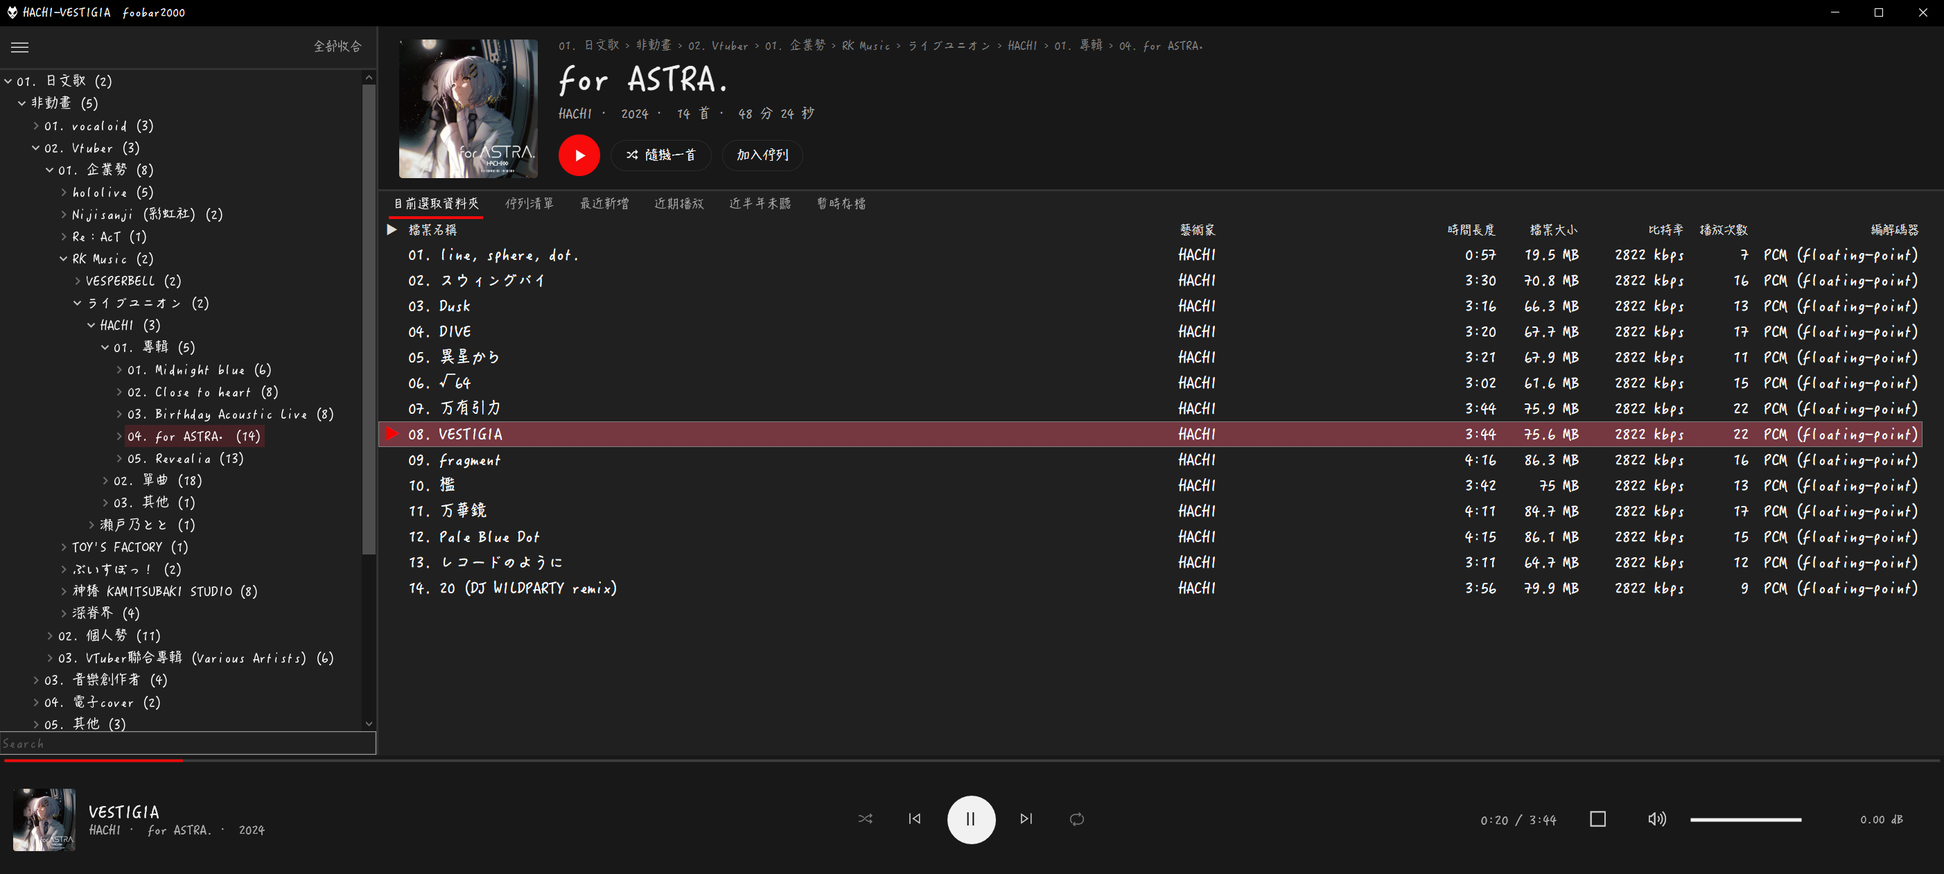
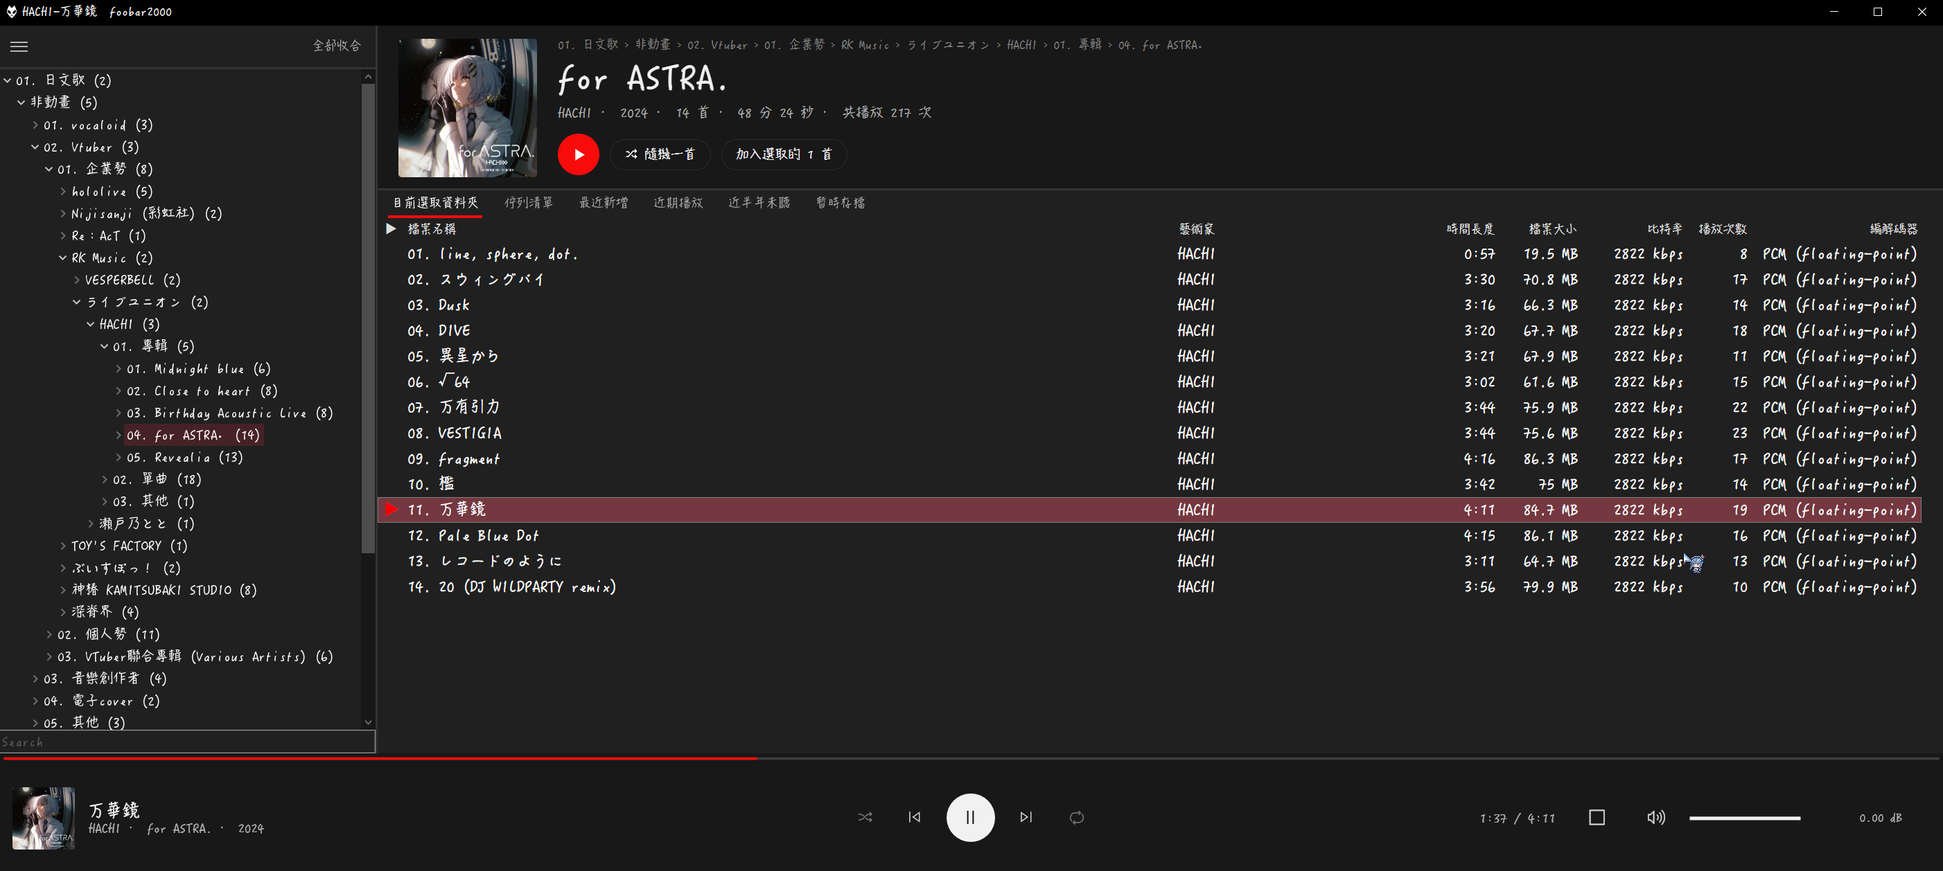
docs: README 重排，功能區改用動畫並新增佇列清單說明
- 開頭點出專案是為了資料夾結構而做，拿掉「我整理音樂的方式」整節，範例連結移到目的段
- 新增「功能」區：展開播放頁、佇列清單、下一首提示，每節只放一個動畫（50 fps 動畫 WebP）
- 下載說明改成兩行，「設定資料夾」只在「安裝」開頭定義一次，加上站內連結
- 更新版的下載說明補上 ESLyric 設定會換成主題附的
- 中文與英文 README 同步，英文版先補佇列文字（英文動畫之後再錄）
- main-zh.png 換成新錄的主畫面

diff --git a/README.en.md b/README.en.md
@@ -4,14 +4,30 @@
 
 A dark, streaming-style look for foobar2000: an album header on top, underlined playlist tabs, and an expandable now playing view with lyrics.
 
-Download: https://github.com/openeric2000/fb2k-nocturne/releases . There are two kinds of ZIP for each language:
+Nocturne is built around **folder structure**. I sort my music into nested folders, so the interface centers on two things: the folder tree on the left and the album header at the top. Click any level and the header shows that level's name, plus the artist, year, track count and total length ([see the demo](https://openeric2000.github.io/fb2k-nocturne/), which uses fake data). The expandable now playing view, the lyrics and the Up Next card make listening look and feel good, too.
 
-| | English | Traditional Chinese | When to use it |
-|---|---|---|---|
-| **Full** (install) | `fb2k-nocturne-v1.20-en.zip` | `fb2k-nocturne-v1.20-zh-TW.zip` | The first installation, or when you want the theme to replace your whole interface setup |
-| **Update** | `fb2k-nocturne-v1.20-update-en.zip` | `fb2k-nocturne-v1.20-update-zh-TW.zip` | You already have Nocturne and only want a newer version (your playlists and other settings stay; the ESLyric settings are replaced with the theme's) |
+Download: https://github.com/openeric2000/fb2k-nocturne/releases
 
-> **A fresh foobar2000 install is recommended.** You can also install the theme on a foobar2000 you already use, but the installation overwrites your interface settings, fonts and playlists, so back up the whole profile folder first. See "Installing on a foobar2000 you already use" below. If you already have Nocturne and only want a newer version, see "Updating to a new version".
+- First installation: download the **Full** ZIP, `fb2k-nocturne-v1.20-en.zip` (English) or `fb2k-nocturne-v1.20-zh-TW.zip` (Traditional Chinese).
+- You already have Nocturne and only want a newer version: download the **Update** ZIP, `fb2k-nocturne-v1.20-update-en.zip` (English) or `fb2k-nocturne-v1.20-update-zh-TW.zip` (Traditional Chinese). Your playlists and other settings stay; the ESLyric settings are replaced with the theme's. See ["Updating to a new version"](#updating-to-a-new-version).
+
+A fresh foobar2000 install is recommended. Installing on a foobar2000 you already use overwrites your interface settings, fonts and playlists, so back up first; see ["Installation"](#installation).
+
+## Features
+
+### Now playing view
+
+Click the now playing bar to expand it into a now playing view with a large cover and the lyrics. Click again to collapse it.
+
+### Queue
+
+The "Add to Queue" button in the album header adds the whole playlist to the playback queue in order. Select some tracks in the list first and the button becomes "Add Selected (N)" and adds only those. The "Queue" tab shows what is in the queue; select some tracks there and press "Remove from Queue" to take them out.
+
+Playing another track (double-click, Enter, or right-click → Play) keeps the queue instead of clearing it. To go back to foobar2000's default behavior, uncheck the option under "Playback queue" on the "Up Next Notice" tab in the settings.
+
+### Up Next card
+
+On the expanded now playing view, when a track is about to end (the last 10 seconds by default), an Up Next card appears at the bottom right with the next track's cover, title, artist and a countdown. When the countdown ends, the next track starts. If the next track is one you added to the queue, the card says so. You can adjust the details on the "Up Next Notice" tab in the settings.
 
 ## Requirements
 
@@ -21,27 +37,29 @@ Download: https://github.com/openeric2000/fb2k-nocturne/releases . There are two
 
 ## Installation
 
+The **profile folder** comes up often below: for the portable version it is the `profile` folder next to `foobar2000.exe`; for the installed version it is `%APPDATA%\foobar2000-v2` (paste it into the File Explorer address bar and press Enter to open it).
+
 Find your situation first:
 
 | Your situation | What to do |
 |----------------|------------|
-| A fresh foobar2000 (recommended) | Follow Steps 1-4 below |
-| A foobar2000 you already use, without Nocturne | **Back up the profile folder first**, then follow Steps 1-4 (**ESLyric must be 1.0.7.0 or newer**; update it first if it is older). Your interface settings, fonts, Album list settings, **ESLyric settings** and playlists are replaced by the theme's; see "Installing on a foobar2000 you already use" |
-| Nocturne already installed (for example v1.10), and you want a newer version in the same language | Download the **Update** ZIP and see "Updating to a new version": your playlists and other settings stay (the ESLyric settings are replaced with the theme's) |
-| Switching from the Chinese version to the English one (or the other way round) | **Overwrite everything** with the **Full** ZIP (as in Step 2). Do not use the Update ZIP, or the now playing bar will be blank |
+| A fresh foobar2000 (recommended) | Follow [Steps 1-4](#step-1-install-foobar2000-and-three-required-components-do-this-first) below |
+| A foobar2000 you already use, without Nocturne | **Back up the profile folder first**, then follow [Steps 1-4](#step-1-install-foobar2000-and-three-required-components-do-this-first) (ESLyric must be 1.0.7.0 or newer; update it first if it is older). Your interface settings, fonts, Album list settings, ESLyric settings and playlists are replaced by the theme's; see ["Installing on a foobar2000 you already use"](#installing-on-a-foobar2000-you-already-use) |
+| Nocturne already installed (for example v1.10), and you want a newer version in the same language | Download the Update ZIP and see ["Updating to a new version"](#updating-to-a-new-version): your playlists and other settings stay (the ESLyric settings are replaced with the theme's) |
+| Switching from the Chinese version to the English one (or the other way round) | Overwrite everything with the Full ZIP (as in [Step 2](#step-2-close-foobar2000-and-copy-the-zip-contents-into-the-profile-folder)). Do not use the Update ZIP, or the now playing bar will be blank |
 
 ### Step 1: Install foobar2000 and three required components (do this first)
 
 The authors of these three components do not allow redistribution, so they are not included. Please download them from their official pages.
 
-**Install all three and restart foobar2000 before going on to Step 2.** If any of them is missing, the lyrics, album header or play counts will not show.
+**Install all three and restart foobar2000 before going on to [Step 2](#step-2-close-foobar2000-and-copy-the-zip-contents-into-the-profile-folder).** If any of them is missing, the lyrics, album header or play counts will not show.
 
 1. Install foobar2000 2.x 64-bit: https://www.foobar2000.org/download (installer or portable both work)
 2. Download the three components (all are `.fb2k-component` files):
 
    | Component | Used for | Download | Tested version |
    |-----------|----------|----------|----------------|
-   | ESLyric | Now playing bar, now playing view, lyrics | https://github.com/ESLyric/release/releases | 1.0.7.0 (**older versions do not work**) |
+   | ESLyric | Now playing bar, now playing view, lyrics | https://github.com/ESLyric/release/releases | 1.0.7.0 (older versions do not work) |
    | WebView2 (foo_webview2) | Album header at the top | https://www.foobar2000.org/components/view/foo_webview2 | 0.3.28 |
    | Playback Statistics (foo_playcount) | Plays column, "Recently Played" and "Not Played in 6 Months" playlists | https://www.foobar2000.org/components/view/foo_playcount | 3.1.11 |
 
@@ -52,19 +70,17 @@ The authors of these three components do not allow redistribution, so they are n
 
 ### Step 2: Close foobar2000 and copy the ZIP contents into the profile folder
 
-(This step uses the **Full** ZIP.)
+(This step uses the Full ZIP.)
 
 1. File → Exit to close foobar2000.
-2. Open the foobar2000 profile folder:
-   - Portable: the `profile` folder next to `foobar2000.exe`
-   - Installed: paste `%APPDATA%\foobar2000-v2` into the File Explorer address bar and press Enter
+2. Open the profile folder (see the start of ["Installation"](#installation) above).
 3. In File Explorer, double-click the ZIP to open it → Ctrl+A → Copy → go back to the profile folder and paste. When asked about existing files, choose "Replace the files in the destination".
 
 After copying, folders such as `user-components-x64`, `configuration`, `eslyric-data` and `webview` should be directly inside the profile folder. If they ended up one folder deeper, the theme will not work. The `Docs` folder only contains this guide and the license files; you can keep or delete it.
 
 ### Step 3: Open foobar2000 and switch to the theme
 
-1. Open foobar2000. Because a new user interface component was added, foobar2000 asks which user interface to use. Choose **Columns UI**.
+1. Open foobar2000. Because a new user interface component was added, foobar2000 asks which user interface to use. Choose Columns UI.
 2. If a "Quick setup – Columns UI" window appears, **just click Cancel** and do not pick any layout in it. Picking a layout and clicking OK replaces the theme's layout.
 
 ### Step 4: Add your music folders
@@ -75,15 +91,15 @@ File → Preferences → Media Library → click "Add..." and add your music fol
 
 The ESLyric settings are already tuned for you (they are installed together with the theme), and lyrics are searched for automatically during playback:
 
-1. First, lyric files on your computer: in the same folder as the song, or in the `lyrics` folder inside the foobar2000 profile folder.
-2. Only if nothing is found, ESLyric **goes online** and searches NetEase Cloud Music, Kugou, QQ Music, NetEase English, LRCLIB, MiniLyrics and Musixmatch. **This sends the song title and artist to those services**; how to turn it off is below.
+1. First, lyric files on your computer: in the same folder as the song, or in the `lyrics` folder inside the profile folder.
+2. Only if nothing is found, ESLyric goes online and searches NetEase Cloud Music, Kugou, QQ Music, NetEase English, LRCLIB, MiniLyrics and Musixmatch. **This sends the song title and artist to those services**; how to turn it off is below.
 
-Synced lyrics that are found are saved automatically to the `lyrics` folder inside the foobar2000 profile folder. Nothing to set up:
+Synced lyrics that are found are saved automatically to the `lyrics` folder inside the profile folder. Nothing to set up:
 
 - Portable: `foobar2000\profile\lyrics\`
 - Installed: `%APPDATA%\foobar2000-v2\lyrics\`
 
-To change the lyric settings, go to File → Preferences → Tools → **ESLyric**:
+To change the lyric settings, go to File → Preferences → Tools → ESLyric:
 
 - Do not want online searches: under "Lyric Options" turn off "Automatically search on playback start", or untick the sources you do not want under "Lyric Sources" (the built-in "Local File" source only reads lyric files on your computer).
 - Want more lyric sources: "Get More..." at the top right of the "Lyric Sources" page.
@@ -93,20 +109,20 @@ To change the lyric settings, go to File → Preferences → Tools → **ESLyric
 
 In a long playlist it can be hard to see which track is playing. You can give foobar2000's "Activate now playing" a keyboard shortcut; one key press finds the playing track in the list and selects it. Shortcuts are foobar2000's own settings, so the theme does not assign one for you. Set it up once (the example below uses `F4`; use any key you like):
 
-1. File → Preferences → **Keyboard Shortcuts**, then click **Add new**.
-2. In the Action section, type `Activate now playing` into "Filter list by", then click **View → Playlist view → Activate now playing** in the list.
-3. Click the **Key** field at the bottom and press the key you want (`F4` in the example), then click Apply → OK.
+1. File → Preferences → Keyboard Shortcuts, then click "Add new".
+2. In the Action section, type `Activate now playing` into "Filter list by", then click View → Playlist view → Activate now playing in the list.
+3. Click the Key field at the bottom and press the key you want (`F4` in the example), then click Apply → OK.
 
 ![Keyboard Shortcuts: assigning F4 to Activate now playing](images/keyboard-shortcut-activate-now-playing.png)
 
 ## Installing on a foobar2000 you already use
 
-You can, but know this first: in Step 2, when you copy the ZIP contents and choose "Replace the files in the destination", **your current interface settings are replaced with the theme's**. So back up first.
+You can, but know this first: in [Step 2](#step-2-close-foobar2000-and-copy-the-zip-contents-into-the-profile-folder), when you copy the ZIP contents and choose "Replace the files in the destination", your current interface settings are replaced with the theme's. So back up first.
 
 ### Back up first
 
 1. File → Exit to close foobar2000.
-2. Copy the whole profile folder to somewhere else (portable: the `profile` folder next to `foobar2000.exe`; installed: `%APPDATA%\foobar2000-v2`).
+2. Copy the whole profile folder to somewhere else.
 3. To go back later, close foobar2000, copy the backup back into the profile folder and choose "Replace" when asked.
 
 ### What gets replaced
@@ -114,7 +130,7 @@ You can, but know this first: in Step 2, when you copy the ZIP contents and choo
 - **Interface settings**: the Columns UI layout, the playlist columns, colours, the status bar and so on are replaced with the theme's. If you already use Columns UI and have customized the layout, your changes will be gone (an official Columns UI you installed is simply replaced by the theme's modified one; they do not conflict).
 - **Fonts**: the fonts of the lists, tabs, folder tree, now playing bar, now playing view and album header go back to the theme's default, Segoe UI. To use another font, choose it again in View → Layout → Theme Font….
 - **Album list settings**.
-- **ESLyric settings**: the lyric sources and their order, the search and save settings, the desktop lyric and so on are replaced with the theme's. Lyrics are now saved to the `lyrics` folder inside the foobar2000 profile folder; lyric files you kept somewhere else are not deleted, but ESLyric no longer looks there or saves there. To keep your own ESLyric settings, choose "Skip" for the file `configuration\foo_uie_eslyric.dll.cfg` when copying the ZIP contents, **and do not copy** the `eslyric-data\scripts` folder (if you skip only the settings file but copy the scripts, the 7 online sources appear at the end of your source list, ticked).
+- **ESLyric settings**: the lyric sources and their order, the search and save settings, the desktop lyric and so on are replaced with the theme's. Lyrics are now saved to the `lyrics` folder inside the profile folder; lyric files you kept somewhere else are not deleted, but ESLyric no longer looks there or saves there. To keep your own ESLyric settings, choose "Skip" for the file `configuration\foo_uie_eslyric.dll.cfg` when copying the ZIP contents, **and do not copy** the `eslyric-data\scripts` folder (if you skip only the settings file but copy the scripts, the 7 online sources appear at the end of your source list, ticked).
 - **Album header page**: if you put your own page in `webview\default\` in the profile folder, it is replaced by the theme's.
 - **Playlists**: the five playlists that come with the theme (Selected Folder, Queue, Recently Added, Recently Played, Not Played in 6 Months) go back to their defaults. Other playlists you made are not deleted, but they no longer appear in the playlist tabs (restoring your backup brings them back).
 
@@ -127,14 +143,14 @@ You can, but know this first: in Step 2, when you copy the ZIP contents and choo
 
 ### If you do not want to touch your current foobar2000
 
-Install a separate **portable** foobar2000 and try the theme there. The one you use now is not touched at all.
+Install a separate portable foobar2000 and try the theme there. The one you use now is not touched at all.
 
 ## Updating to a new version
 
-If you already have Nocturne and want a newer version **in the same language**, download the **Update** ZIP (its name contains `update`, for example `fb2k-nocturne-v1.20-update-en.zip`). It contains the theme's own files and the **complete ESLyric settings** (layout, online lyric source scripts, ESLyric settings file), and **does not contain** your playlists or the settings of the other components, so you can simply extract it over your profile folder:
+If you already have Nocturne and want a newer version **in the same language**, download the Update ZIP (its name contains `update`, for example `fb2k-nocturne-v1.20-update-en.zip`). It contains the theme's own files and the complete ESLyric settings (layout, online lyric source scripts, ESLyric settings file), and does not contain your playlists or the settings of the other components, so you can simply extract it over your profile folder:
 
 1. File → Exit to close foobar2000.
-2. Open the foobar2000 profile folder (portable: the `profile` folder next to `foobar2000.exe`; installed: `%APPDATA%\foobar2000-v2`).
+2. Open the profile folder (see the start of ["Installation"](#installation)).
 3. In File Explorer, double-click the Update ZIP to open it → Ctrl+A → Copy → paste into the profile folder. When asked about existing files, choose "Replace the files in the destination". (File Explorer merges the folders and only replaces files with the same name, so your other components and files are not deleted.)
 4. Start foobar2000 again.
 
@@ -142,14 +158,14 @@ The Update ZIP replaces: `user-components-x64` (the DLLs of the three components
 
 Notes:
 
-- **The fonts of the now playing bar, now playing view and album header go back to the default**, because they are stored in `main.xml` and `index.html`. Choose your font again in View → Layout → Theme Font… (the fonts of the lists, tabs and folder tree are not affected).
-- **What is inside the settings files is not updated.** When updating from v1.10 to this version, that applies to the display script of the first playlist column (▶): it keeps working without the update; the only difference is that after you switch folders with Album list and back, newly added tracks may not show ▶. To switch to the new script: File → Preferences → Display → Columns UI → Playlist view → "Columns" tab, select the first column (▶), open the "Display script" tab, replace the content with the line below, click Apply in that section, then OK:
+- The fonts of the now playing bar, now playing view and album header go back to the default, because they are stored in `main.xml` and `index.html`. Choose your font again in View → Layout → Theme Font… (the fonts of the lists, tabs and folder tree are not affected).
+- What is inside the settings files is not updated. When updating from v1.10 to this version, that applies to the display script of the first playlist column (▶): it keeps working without the update; the only difference is that after you switch folders with Album list and back, newly added tracks may not show ▶. To switch to the new script: File → Preferences → Display → Columns UI → Playlist view → "Columns" tab, select the first column (▶), open the "Display script" tab, replace the content with the line below, click Apply in that section, then OK:
 
   `$if($or(%isplaying%,%cui_now_playing_file%),$if(%ispaused%,❚❚,▶),[%queue_indexes%])`
 
-- **Your ESLyric settings are replaced with the theme's.** That includes the 7 online lyric sources (NetEase Cloud Music, Kugou, QQ Music, NetEase English, LRCLIB, MiniLyrics and Musixmatch) and their order, the search and save settings, the desktop lyric and so on. **When no local lyrics are found, ESLyric goes online during playback and sends the song title and artist to those services**; how to turn that off is described above in "Lyrics: where they come from, where they are saved, where to change settings". Lyrics are now saved to the `lyrics` folder inside the foobar2000 profile folder; lyric files you kept somewhere else are not deleted, but ESLyric no longer looks there or saves there. **To keep your own ESLyric settings**, choose "Skip" for `configuration\foo_uie_eslyric.dll.cfg` when copying, **and do not copy** the `eslyric-data\scripts` folder. If you skip only the settings file but copy the scripts, the 7 online sources appear at the end of your source list, ticked, in file-name order.
-- **To switch language (Chinese version to English, or the other way round), do not use the Update ZIP.** Overwrite everything with the Full ZIP (after making a backup). The settings files still remember the names of the other language, so replacing only the theme files leaves the now playing bar blank.
-- If you are not sure, overwrite everything with the Full ZIP as described in "Installing on a foobar2000 you already use" above, after making a backup.
+- Your ESLyric settings are replaced with the theme's, including the 7 online lyric sources and their order, the search and save settings, the desktop lyric and so on. When no local lyrics are found, ESLyric goes online during playback; how to turn that off is described above in ["Lyrics: where they come from, where they are saved, where to change settings"](#lyrics-where-they-come-from-where-they-are-saved-where-to-change-settings). To keep your own ESLyric settings, see the ESLyric item under ["What gets replaced"](#what-gets-replaced) above.
+- To switch language (Chinese version to English, or the other way round), do not use the Update ZIP. Overwrite everything with the Full ZIP (after making a backup). The settings files still remember the names of the other language, so replacing only the theme files leaves the now playing bar blank.
+- If you are not sure, overwrite everything with the Full ZIP as described in ["Installing on a foobar2000 you already use"](#installing-on-a-foobar2000-you-already-use) above, after making a backup.
 
 ## Fonts
 
@@ -169,10 +185,10 @@ After downloading, right-click the font file → "Install" (or "Install for all 
 
 ### Changing the theme font
 
-1. Main menu **View → Layout → Theme Font…** (also available from the ☰ button at the top left → View → Layout).
+1. Main menu View → Layout → Theme Font… (also available from the ☰ button at the top left → View → Layout).
 2. Pick a font and an overall size → OK. The lists, tabs, folder tree, now playing bar, now playing view and album header all change together.
 3. When the message appears, click "Yes" to restart foobar2000 so the now playing bar and album header pick up the new font.
-4. **The lyrics font is set separately**: right-click the lyrics → **Panel Options...** and change the font there.
+4. The lyrics font is set separately: right-click the lyrics → Panel Options... and change the font there.
 5. The desktop lyric (off by default) has its own font: File → Preferences → Tools → ESLyric → Desktop Lyric → Display settings.
 
 - The weight is always Regular.
